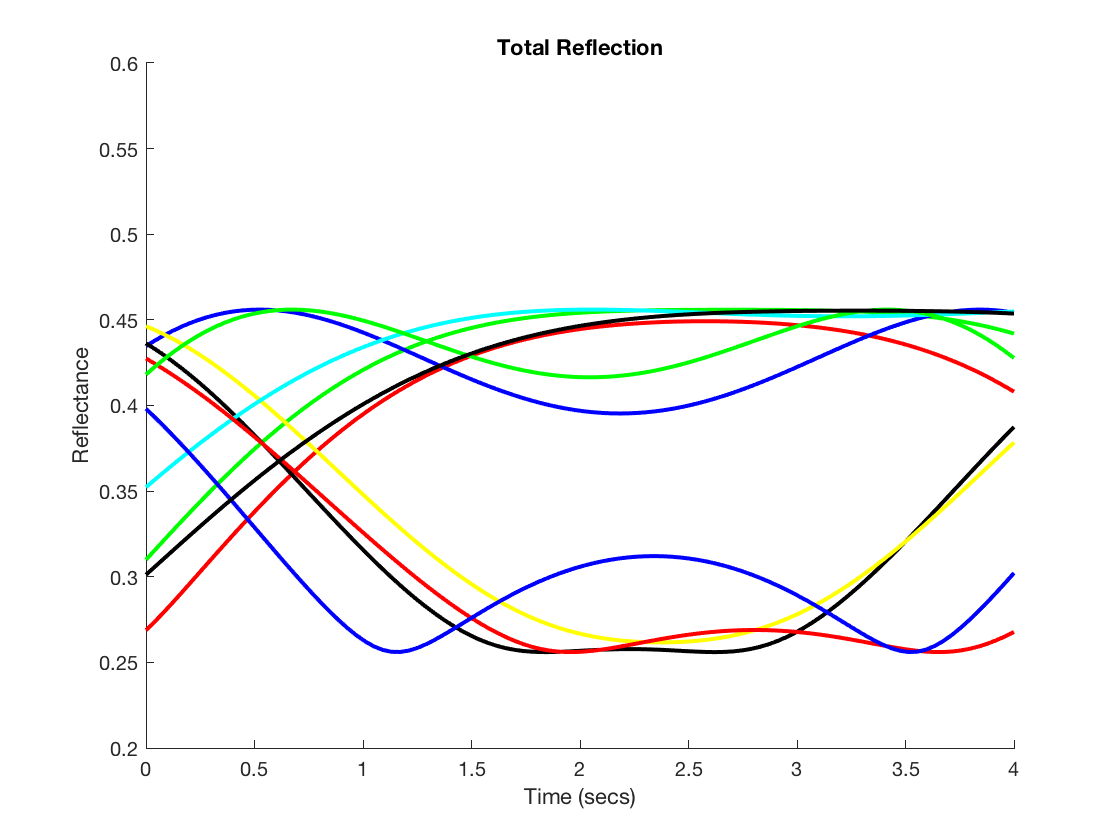
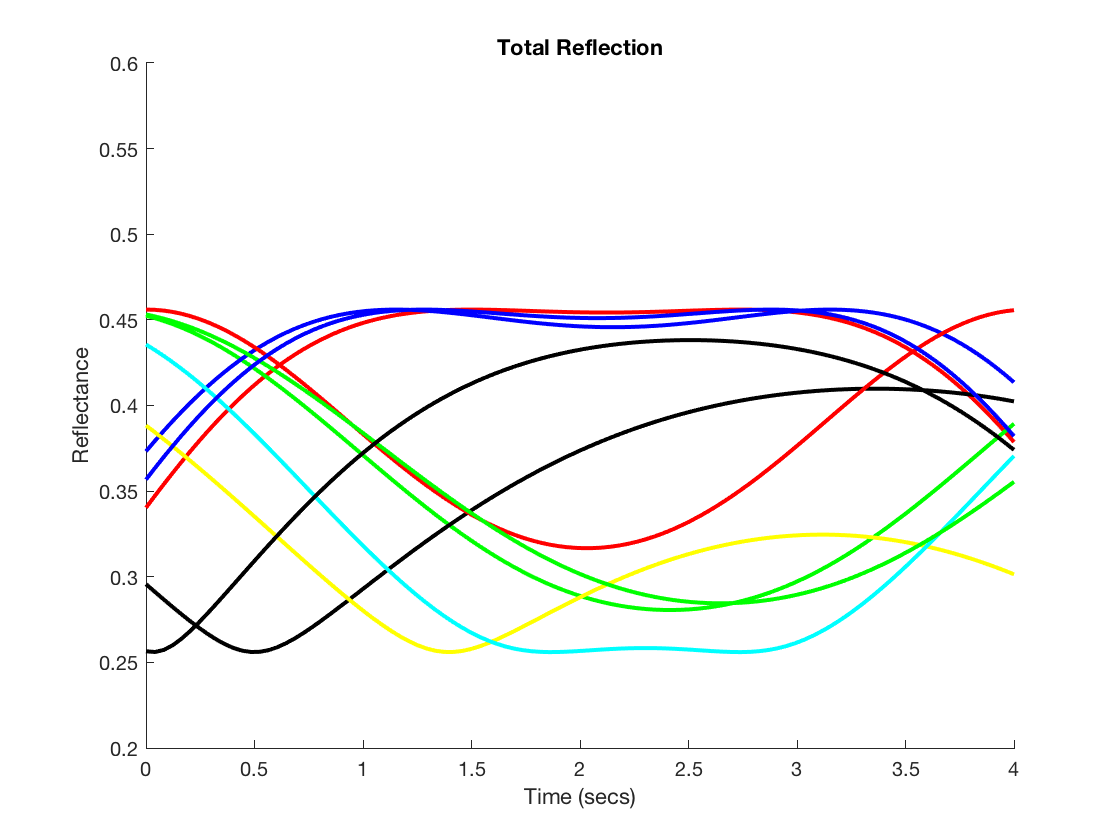
A few parameter tweaks.

diff --git a/AOSimpleConeReflectanceModel/simpleConeReflectanceModel.m b/AOSimpleConeReflectanceModel/simpleConeReflectanceModel.m
@@ -37,7 +37,7 @@ lightWavelengthNm = 790;
 nCones = 10;
 
 % Length between reflecting surfaces
-reflectingSurfaceDifferenceNm = 10*1e3;
+reflectingSurfaceDifferenceNm = 30*1e3;
 
 % How much variation in the starting length between surfces is there
 % across cones (or trials within measurements for one cone), experessed as a
